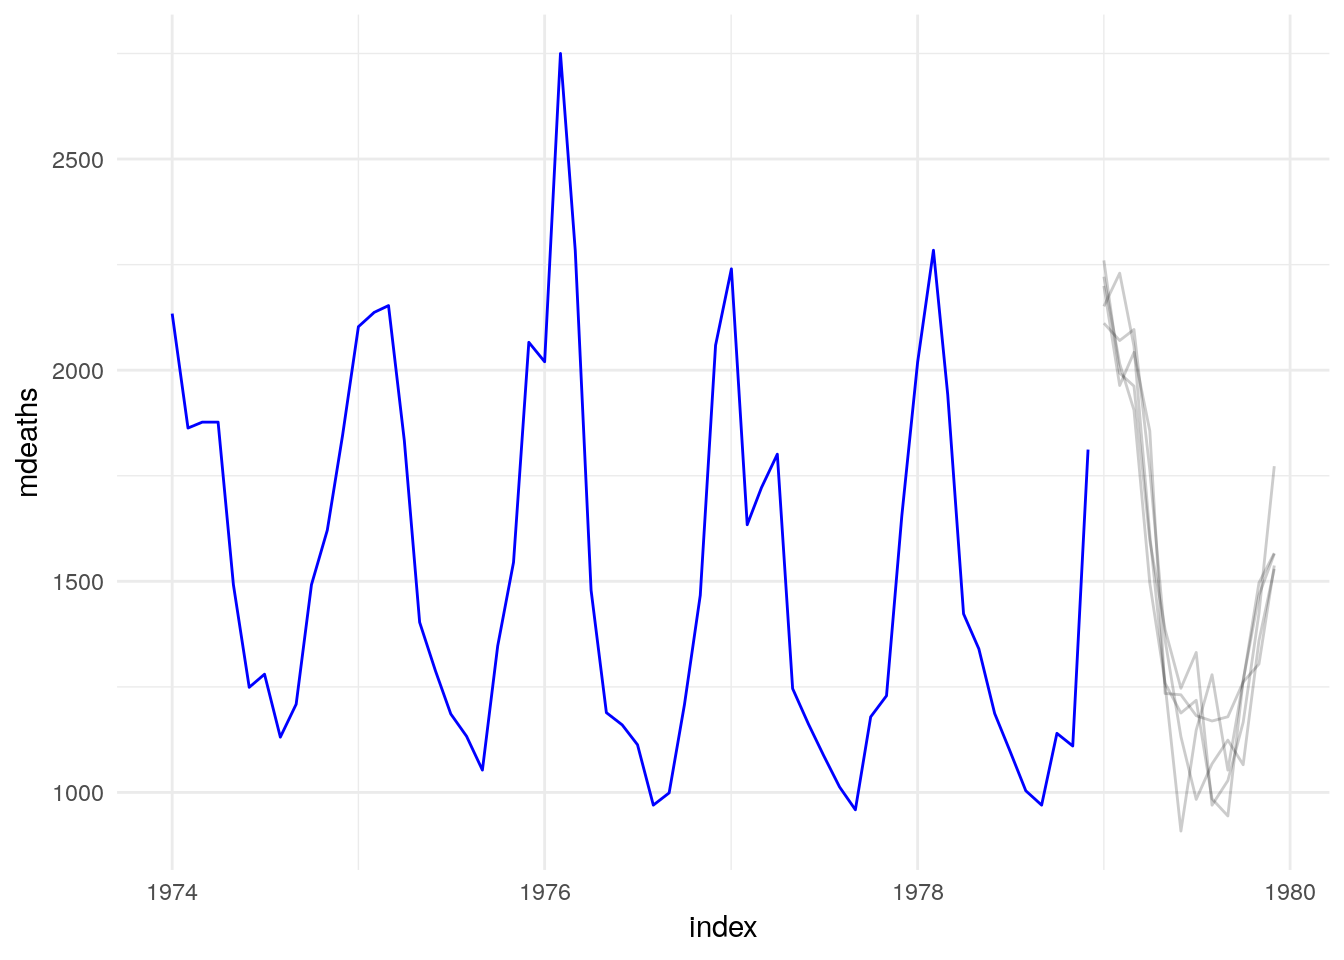
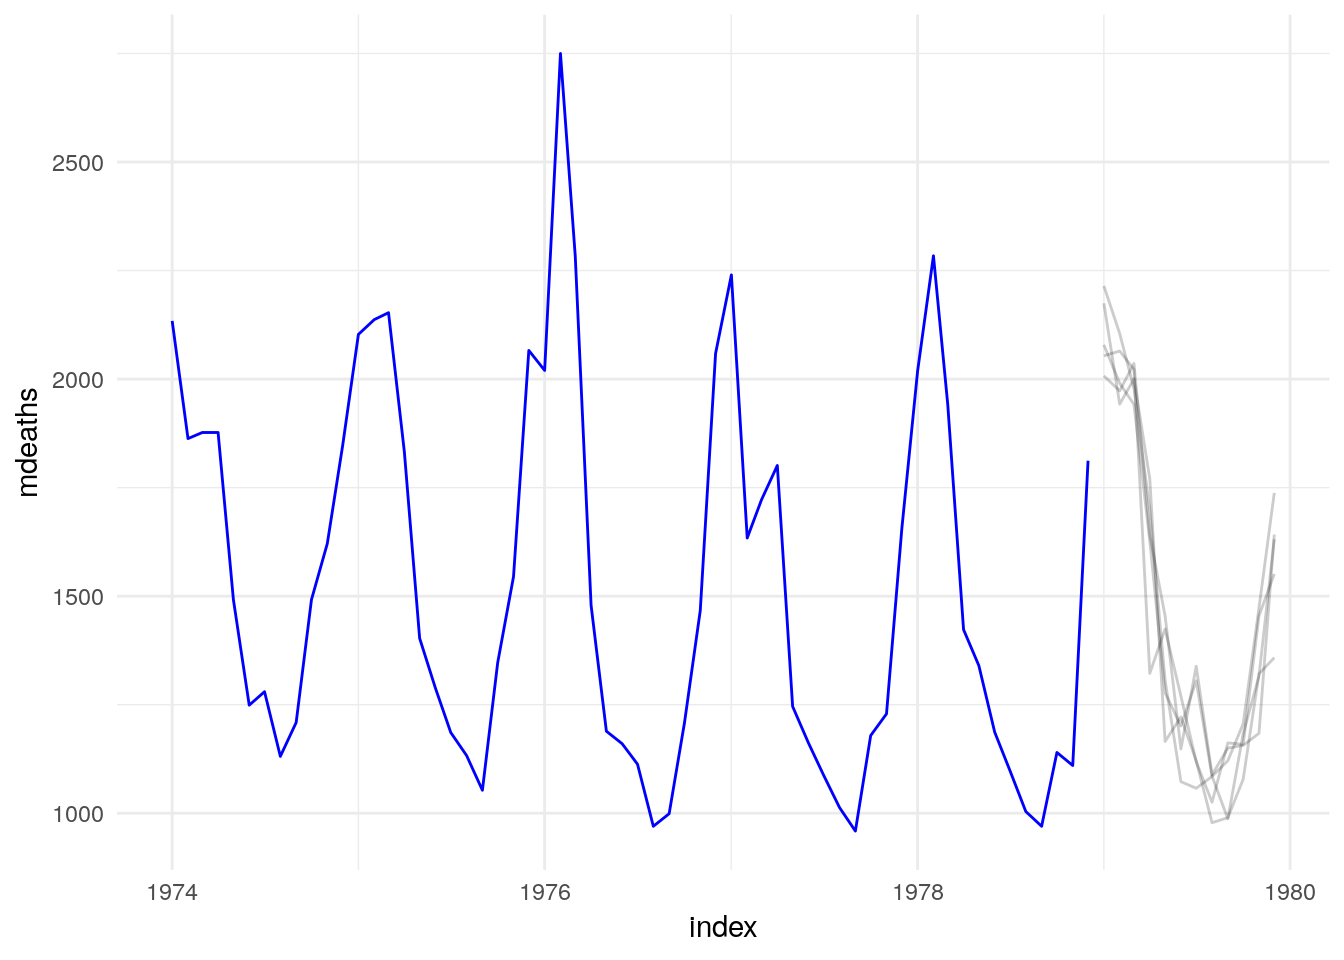
Finished first draft of re-estimation methods

diff --git a/docs/methods.html b/docs/methods.html
@@ -25,7 +25,7 @@
 <meta name="author" content="Mitchell O’Hara-Wild">
 
 
-<meta name="date" content="2018-10-02">
+<meta name="date" content="2018-10-03">
 
   <meta name="viewport" content="width=device-width, initial-scale=1">
   <meta name="apple-mobile-web-app-capable" content="yes">
@@ -213,15 +213,14 @@ code span.wa { color: #60a0b0; font-weight: bold; font-style: italic; } /* Warni
 <div id="refit" class="section level3">
 <h3><span class="header-section-number">5.5.1</span> refit()</h3>
 <p>The refitting a model allows the same model to be applied to a new dataset. This is similar to the <code>model</code> argument available in most modelling functions from the <a href="https://github.com/robjhyndman/forecast/">forecast package</a>.</p>
+<p>The refitted model should maintain the same structure and coefficients of the original model, with fitted information updated to reflect the model’s behaviour on the new dataset. It should also be possible to allow re-estimation of parameters using the <code>reestimate</code> argument, which keeps the selected model terms but updates the model coefficients/parameters.</p>
+<p>It is expected that a refit method uses a fitted model and replacement data to return a mable.</p>
 <p>Suppose we are using an ETS model to estimate the <code>mdeaths</code> series:</p>
-<div class="sourceCode" id="cb1"><pre class="sourceCode r"><code class="sourceCode r"><a class="sourceLine" id="cb1-1" data-line-number="1">mdeaths_ets &lt;-<span class="st"> </span><span class="kw">as_tsibble</span>(mdeaths) <span class="op">%&gt;%</span><span class="st"> </span></a>
-<a class="sourceLine" id="cb1-2" data-line-number="2"><span class="st">  </span><span class="kw">ETS</span>(value)</a></code></pre></div>
-<pre><code>## # A mable: 1 model [1M]
-##   data               model     
-##   &lt;list&gt;             &lt;model&gt;   
-## 1 &lt;tsibble [72 × 2]&gt; ETS(M,A,A)</code></pre>
+<div class="sourceCode" id="cb1"><pre class="sourceCode r"><code class="sourceCode r"><a class="sourceLine" id="cb1-1" data-line-number="1"><span class="kw">library</span>(fable)</a>
+<a class="sourceLine" id="cb1-2" data-line-number="2">mdeaths_ets &lt;-<span class="st"> </span><span class="kw">as_tsibble</span>(mdeaths) <span class="op">%&gt;%</span><span class="st"> </span></a>
+<a class="sourceLine" id="cb1-3" data-line-number="3"><span class="st">  </span><span class="kw">ETS</span>(value)</a></code></pre></div>
 <p>We may be interested in using the same model with the same coefficients to estimate the <code>fdeaths</code> series:</p>
-<div class="sourceCode" id="cb3"><pre class="sourceCode r"><code class="sourceCode r"><a class="sourceLine" id="cb3-1" data-line-number="1"><span class="kw">refit</span>(mdeaths_ets, <span class="kw">as_tsibble</span>(fdeaths))</a></code></pre></div>
+<div class="sourceCode" id="cb2"><pre class="sourceCode r"><code class="sourceCode r"><a class="sourceLine" id="cb2-1" data-line-number="1"><span class="kw">refit</span>(mdeaths_ets, <span class="kw">as_tsibble</span>(fdeaths))</a></code></pre></div>
 <pre><code>## # A mable: 1 model [1M]
 ##   data               model     
 ##   &lt;list&gt;             &lt;model&gt;   
@@ -229,7 +228,17 @@ code span.wa { color: #60a0b0; font-weight: bold; font-style: italic; } /* Warni
 </div>
 <div id="stream" class="section level3">
 <h3><span class="header-section-number">5.5.2</span> stream()</h3>
-<p>Streaming data into a model allows a model to be extended to accomodate new, future data.</p>
+<p>Streaming data into a model allows a model to be extended to accomodate new, future data. Like <code>refit</code>, <code>stream</code> should allow re-estimation of the model parameters. As this can be a costly operation for some models, in most cases updating the parameters should not occur. However it is recommended that the model parameters are updated on a regular basis.</p>
+<p>Suppose we are estimating electricity demand data (<code>tsibbledata::elecdemand</code>), and after fitting a model to the existing data, a new set of data from the next month becomes available.</p>
+<p><img src="tidy-forecasting_files/figure-html/stream-tsplot-1.png" width="672" /></p>
+<p>A (minimal) model for the electricity demand above can be estimated using <a href="https://github.com/tidyverts/fasster">fasster</a>.</p>
+<div class="sourceCode" id="cb4"><pre class="sourceCode r"><code class="sourceCode r"><a class="sourceLine" id="cb4-1" data-line-number="1">fit &lt;-<span class="st"> </span>elec_tr <span class="op">%&gt;%</span><span class="st"> </span></a>
+<a class="sourceLine" id="cb4-2" data-line-number="2"><span class="st">  </span><span class="kw">fasster</span>(Demand <span class="op">~</span><span class="st"> </span>WorkDay <span class="op">%S%</span><span class="st"> </span>(<span class="kw">poly</span>(<span class="dv">1</span>) <span class="op">+</span><span class="st"> </span><span class="kw">trig</span>(<span class="dv">10</span>)))</a></code></pre></div>
+<p><img src="tidy-forecasting_files/figure-html/stream-fit-plot-1.png" width="672" /></p>
+<p>To extend these fitted values to include December’s electricity data, we can use the <code>stream</code> functionality:</p>
+<div class="sourceCode" id="cb5"><pre class="sourceCode r"><code class="sourceCode r"><a class="sourceLine" id="cb5-1" data-line-number="1">fit &lt;-<span class="st"> </span>fit <span class="op">%&gt;%</span><span class="st"> </span></a>
+<a class="sourceLine" id="cb5-2" data-line-number="2"><span class="st">  </span><span class="kw">stream</span>(elec_stream)</a></code></pre></div>
+<p><img src="tidy-forecasting_files/figure-html/stream-plot-1.png" width="672" /></p>
 </div>
 </div>
 <div id="simulation" class="section level2">
@@ -246,70 +255,62 @@ code span.wa { color: #60a0b0; font-weight: bold; font-style: italic; } /* Warni
 <p>It is expected that the innovations (<code>.innov</code>) for the simulation are randomly generated for each repition number (<code>rep</code>), which can be achieved using the <code>times</code> argument. However, users should also be able to provide a set of pre-generated innovations (<code>.innov</code>) for each repition (<code>.rep</code>). If these columns are provided in the <code>new_data</code>, then this data will be passed directly to the simulation method (without generating new numbers over <code>times</code> replications).</p>
 <pre><code>## # A tsibble: 9 x 5 [1M]
 ## # Key:       .rep [3]
-##    .rep     .idx .innov     x1     x2
-##   &lt;int&gt;    &lt;mth&gt;  &lt;dbl&gt;  &lt;dbl&gt;  &lt;dbl&gt;
-## 1     1 2017 Jan  1.58   0.862 -2.73 
-## 2     1 2017 Feb  1.06   5.57  -1.05 
-## 3     1 2017 Mar -2.17  -1.70  -2.72 
-## 4     2 2017 Jan  0.890  2.99  -0.151
-## 5     2 2017 Feb -0.438  6.83  -2.56 
-## 6     2 2017 Mar  0.340  1.82  -0.759
-## 7     3 2017 Jan -0.654 -1.36  -4.73 
-## 8     3 2017 Feb -0.482  2.86  -1.66 
-## 9     3 2017 Mar  1.72   3.81  -2.09</code></pre>
+##    .rep     .idx  .innov     x1     x2
+##   &lt;int&gt;    &lt;mth&gt;   &lt;dbl&gt;  &lt;dbl&gt;  &lt;dbl&gt;
+## 1     1 2017 Jan  0.127   1.80  -2.09 
+## 2     1 2017 Feb  1.08   -1.26  -2.97 
+## 3     1 2017 Mar -1.60    3.79  -0.824
+## 4     2 2017 Jan -1.73    1.05  -2.11 
+## 5     2 2017 Feb  0.887   0.445 -1.35 
+## 6     2 2017 Mar  0.184   5.97  -3.75 
+## 7     3 2017 Jan -1.35    2.95  -2.74 
+## 8     3 2017 Feb  0.225   1.84  -0.935
+## 9     3 2017 Mar  0.0661  2.30  -2.16</code></pre>
 <p>For the end user, creating simulations would work like this:</p>
-<div class="sourceCode" id="cb6"><pre class="sourceCode r"><code class="sourceCode r"><a class="sourceLine" id="cb6-1" data-line-number="1"><span class="kw">library</span>(fable)</a>
-<a class="sourceLine" id="cb6-2" data-line-number="2"><span class="kw">library</span>(tsibbledata)</a>
-<a class="sourceLine" id="cb6-3" data-line-number="3">UKLungDeaths <span class="op">%&gt;%</span><span class="st"> </span></a>
-<a class="sourceLine" id="cb6-4" data-line-number="4"><span class="st">  </span><span class="kw">LM</span>(mdeaths <span class="op">~</span><span class="st"> </span><span class="kw">fourier</span>(<span class="st">&quot;year&quot;</span>, <span class="dt">K =</span> <span class="dv">4</span>) <span class="op">+</span><span class="st"> </span>fdeaths) <span class="op">%&gt;%</span><span class="st"> </span></a>
-<a class="sourceLine" id="cb6-5" data-line-number="5"><span class="st">  </span><span class="kw">simulate</span>(UKLungDeaths, <span class="dt">times =</span> <span class="dv">5</span>)</a></code></pre></div>
+<div class="sourceCode" id="cb7"><pre class="sourceCode r"><code class="sourceCode r"><a class="sourceLine" id="cb7-1" data-line-number="1"><span class="kw">library</span>(fable)</a>
+<a class="sourceLine" id="cb7-2" data-line-number="2"><span class="kw">library</span>(tsibbledata)</a>
+<a class="sourceLine" id="cb7-3" data-line-number="3">UKLungDeaths <span class="op">%&gt;%</span><span class="st"> </span></a>
+<a class="sourceLine" id="cb7-4" data-line-number="4"><span class="st">  </span><span class="kw">LM</span>(mdeaths <span class="op">~</span><span class="st"> </span><span class="kw">fourier</span>(<span class="st">&quot;year&quot;</span>, <span class="dt">K =</span> <span class="dv">4</span>) <span class="op">+</span><span class="st"> </span>fdeaths) <span class="op">%&gt;%</span><span class="st"> </span></a>
+<a class="sourceLine" id="cb7-5" data-line-number="5"><span class="st">  </span><span class="kw">simulate</span>(UKLungDeaths, <span class="dt">times =</span> <span class="dv">5</span>)</a></code></pre></div>
 <pre><code>## # A tsibble: 360 x 3 [1M]
 ## # Key:       .rep [5]
 ##       index  .rep  .sim
 ##       &lt;mth&gt; &lt;int&gt; &lt;dbl&gt;
-##  1 1974 Jan     1 2223.
-##  2 1974 Feb     1 1856.
-##  3 1974 Mar     1 2032.
-##  4 1974 Apr     1 1804.
-##  5 1974 May     1 1420.
-##  6 1974 Jun     1 1244.
-##  7 1974 Jul     1 1195.
-##  8 1974 Aug     1 1001.
-##  9 1974 Sep     1 1033.
-## 10 1974 Oct     1 1480.
+##  1 1974 Jan     1 2267.
+##  2 1974 Feb     1 1710.
+##  3 1974 Mar     1 2077.
+##  4 1974 Apr     1 1730.
+##  5 1974 May     1 1482.
+##  6 1974 Jun     1 1013.
+##  7 1974 Jul     1 1211.
+##  8 1974 Aug     1 1104.
+##  9 1974 Sep     1 1161.
+## 10 1974 Oct     1 1682.
 ## # ... with 350 more rows</code></pre>
 <p><img src="tidy-forecasting_files/figure-html/sim-example-eval-1.png" width="672" /></p>
 <p>Or, if they wanted to simulate beyond the sample:</p>
-<div class="sourceCode" id="cb8"><pre class="sourceCode r"><code class="sourceCode r"><a class="sourceLine" id="cb8-1" data-line-number="1"><span class="kw">library</span>(lubridate)</a>
-<a class="sourceLine" id="cb8-2" data-line-number="2">UKLungDeaths <span class="op">%&gt;%</span><span class="st"> </span></a>
-<a class="sourceLine" id="cb8-3" data-line-number="3"><span class="st">  </span><span class="kw">filter</span>(<span class="kw">year</span>(index) <span class="op">&lt;=</span><span class="st"> </span><span class="dv">1978</span>) <span class="op">%&gt;%</span><span class="st"> </span></a>
-<a class="sourceLine" id="cb8-4" data-line-number="4"><span class="st">  </span><span class="kw">LM</span>(mdeaths <span class="op">~</span><span class="st"> </span><span class="kw">fourier</span>(<span class="st">&quot;year&quot;</span>, <span class="dt">K =</span> <span class="dv">4</span>) <span class="op">+</span><span class="st"> </span>fdeaths) <span class="op">%&gt;%</span><span class="st"> </span></a>
-<a class="sourceLine" id="cb8-5" data-line-number="5"><span class="st">  </span><span class="kw">simulate</span>(</a>
-<a class="sourceLine" id="cb8-6" data-line-number="6">    UKLungDeaths <span class="op">%&gt;%</span><span class="st"> </span><span class="kw">filter</span>(<span class="kw">year</span>(index) <span class="op">&gt;</span><span class="st"> </span><span class="dv">1978</span>),</a>
-<a class="sourceLine" id="cb8-7" data-line-number="7">    <span class="dt">times =</span> <span class="dv">5</span></a>
-<a class="sourceLine" id="cb8-8" data-line-number="8">  )</a></code></pre></div>
-<pre><code>## 
-## Attaching package: &#39;lubridate&#39;</code></pre>
-<pre><code>## The following objects are masked from &#39;package:tsibble&#39;:
-## 
-##     interval, new_interval</code></pre>
-<pre><code>## The following object is masked from &#39;package:base&#39;:
-## 
-##     date</code></pre>
+<div class="sourceCode" id="cb9"><pre class="sourceCode r"><code class="sourceCode r"><a class="sourceLine" id="cb9-1" data-line-number="1"><span class="kw">library</span>(lubridate)</a>
+<a class="sourceLine" id="cb9-2" data-line-number="2">UKLungDeaths <span class="op">%&gt;%</span><span class="st"> </span></a>
+<a class="sourceLine" id="cb9-3" data-line-number="3"><span class="st">  </span><span class="kw">filter</span>(<span class="kw">year</span>(index) <span class="op">&lt;=</span><span class="st"> </span><span class="dv">1978</span>) <span class="op">%&gt;%</span><span class="st"> </span></a>
+<a class="sourceLine" id="cb9-4" data-line-number="4"><span class="st">  </span><span class="kw">LM</span>(mdeaths <span class="op">~</span><span class="st"> </span><span class="kw">fourier</span>(<span class="st">&quot;year&quot;</span>, <span class="dt">K =</span> <span class="dv">4</span>) <span class="op">+</span><span class="st"> </span>fdeaths) <span class="op">%&gt;%</span><span class="st"> </span></a>
+<a class="sourceLine" id="cb9-5" data-line-number="5"><span class="st">  </span><span class="kw">simulate</span>(</a>
+<a class="sourceLine" id="cb9-6" data-line-number="6">    UKLungDeaths <span class="op">%&gt;%</span><span class="st"> </span><span class="kw">filter</span>(<span class="kw">year</span>(index) <span class="op">&gt;</span><span class="st"> </span><span class="dv">1978</span>),</a>
+<a class="sourceLine" id="cb9-7" data-line-number="7">    <span class="dt">times =</span> <span class="dv">5</span></a>
+<a class="sourceLine" id="cb9-8" data-line-number="8">  )</a></code></pre></div>
 <pre><code>## # A tsibble: 60 x 3 [1M]
 ## # Key:       .rep [5]
 ##       index  .rep  .sim
 ##       &lt;mth&gt; &lt;int&gt; &lt;dbl&gt;
-##  1 1979 Jan     1 2111.
-##  2 1979 Feb     1 2070.
-##  3 1979 Mar     1 2096.
-##  4 1979 Apr     1 1764.
-##  5 1979 May     1 1361.
-##  6 1979 Jun     1 1132.
-##  7 1979 Jul     1  984.
-##  8 1979 Aug     1 1068.
-##  9 1979 Sep     1 1124.
-## 10 1979 Oct     1 1066.
+##  1 1979 Jan     1 2007.
+##  2 1979 Feb     1 1973.
+##  3 1979 Mar     1 2036.
+##  4 1979 Apr     1 1640.
+##  5 1979 May     1 1455.
+##  6 1979 Jun     1 1148.
+##  7 1979 Jul     1 1339.
+##  8 1979 Aug     1 1089.
+##  9 1979 Sep     1 1150.
+## 10 1979 Oct     1 1156.
 ## # ... with 50 more rows</code></pre>
 <p><img src="tidy-forecasting_files/figure-html/sim-future-eval-1.png" width="672" /></p>
 </div>

diff --git a/docs/index.html b/docs/index.html
@@ -25,7 +25,7 @@
 <meta name="author" content="Mitchell O’Hara-Wild">
 
 
-<meta name="date" content="2018-10-02">
+<meta name="date" content="2018-10-03">
 
   <meta name="viewport" content="width=device-width, initial-scale=1">
   <meta name="apple-mobile-web-app-capable" content="yes">
@@ -192,7 +192,7 @@ code span.wa { color: #60a0b0; font-weight: bold; font-style: italic; } /* Warni
 <div id="header">
 <h1 class="title">Ideas for tidy time series forecasting</h1>
 <h4 class="author"><em>Mitchell O’Hara-Wild</em></h4>
-<h4 class="date"><em>2018-10-02</em></h4>
+<h4 class="date"><em>2018-10-03</em></h4>
 </div>
 <div id="background" class="section level1">
 <h1><span class="header-section-number">1</span> Background</h1>

diff --git a/docs/accuracy.html b/docs/accuracy.html
@@ -25,7 +25,7 @@
 <meta name="author" content="Mitchell O’Hara-Wild">
 
 
-<meta name="date" content="2018-10-02">
+<meta name="date" content="2018-10-03">
 
   <meta name="viewport" content="width=device-width, initial-scale=1">
   <meta name="apple-mobile-web-app-capable" content="yes">

diff --git a/docs/advanced.html b/docs/advanced.html
@@ -25,7 +25,7 @@
 <meta name="author" content="Mitchell O’Hara-Wild">
 
 
-<meta name="date" content="2018-10-02">
+<meta name="date" content="2018-10-03">
 
   <meta name="viewport" content="width=device-width, initial-scale=1">
   <meta name="apple-mobile-web-app-capable" content="yes">

diff --git a/docs/forecast.html b/docs/forecast.html
@@ -25,7 +25,7 @@
 <meta name="author" content="Mitchell O’Hara-Wild">
 
 
-<meta name="date" content="2018-10-02">
+<meta name="date" content="2018-10-03">
 
   <meta name="viewport" content="width=device-width, initial-scale=1">
   <meta name="apple-mobile-web-app-capable" content="yes">

diff --git a/docs/interface.html b/docs/interface.html
@@ -25,7 +25,7 @@
 <meta name="author" content="Mitchell O’Hara-Wild">
 
 
-<meta name="date" content="2018-10-02">
+<meta name="date" content="2018-10-03">
 
   <meta name="viewport" content="width=device-width, initial-scale=1">
   <meta name="apple-mobile-web-app-capable" content="yes">

diff --git a/docs/model.html b/docs/model.html
@@ -25,7 +25,7 @@
 <meta name="author" content="Mitchell O’Hara-Wild">
 
 
-<meta name="date" content="2018-10-02">
+<meta name="date" content="2018-10-03">
 
   <meta name="viewport" content="width=device-width, initial-scale=1">
   <meta name="apple-mobile-web-app-capable" content="yes">

diff --git a/docs/report.html b/docs/report.html
@@ -25,7 +25,7 @@
 <meta name="author" content="Mitchell O’Hara-Wild">
 
 
-<meta name="date" content="2018-10-02">
+<meta name="date" content="2018-10-03">
 
   <meta name="viewport" content="width=device-width, initial-scale=1">
   <meta name="apple-mobile-web-app-capable" content="yes">

diff --git a/docs/tsibble.html b/docs/tsibble.html
@@ -25,7 +25,7 @@
 <meta name="author" content="Mitchell O’Hara-Wild">
 
 
-<meta name="date" content="2018-10-02">
+<meta name="date" content="2018-10-03">
 
   <meta name="viewport" content="width=device-width, initial-scale=1">
   <meta name="apple-mobile-web-app-capable" content="yes">
